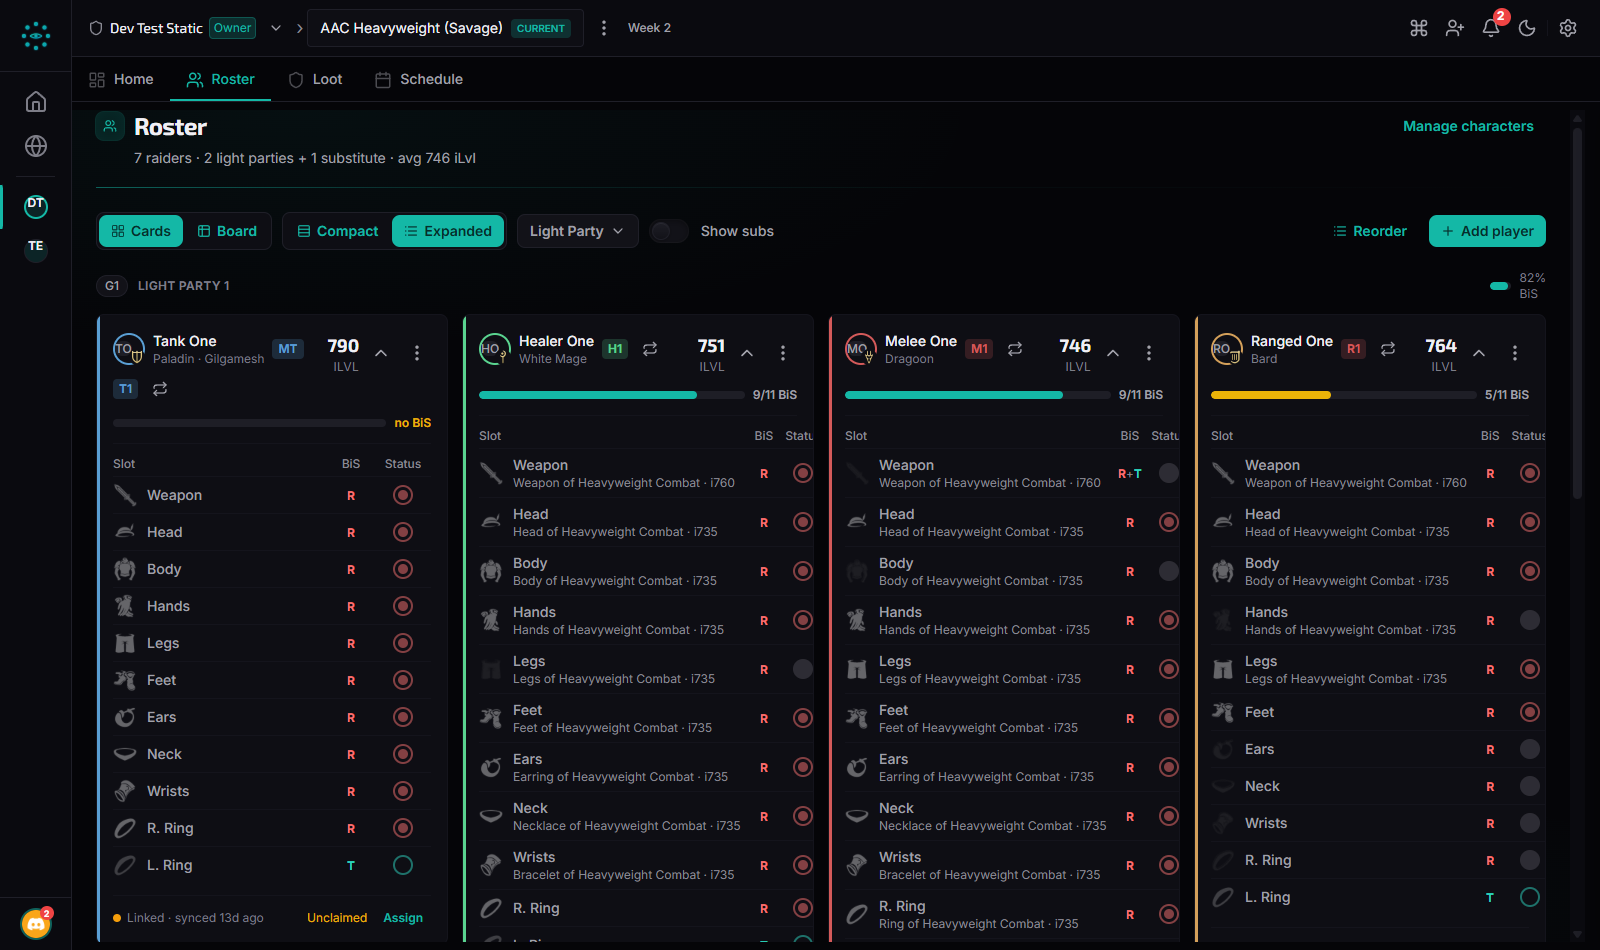
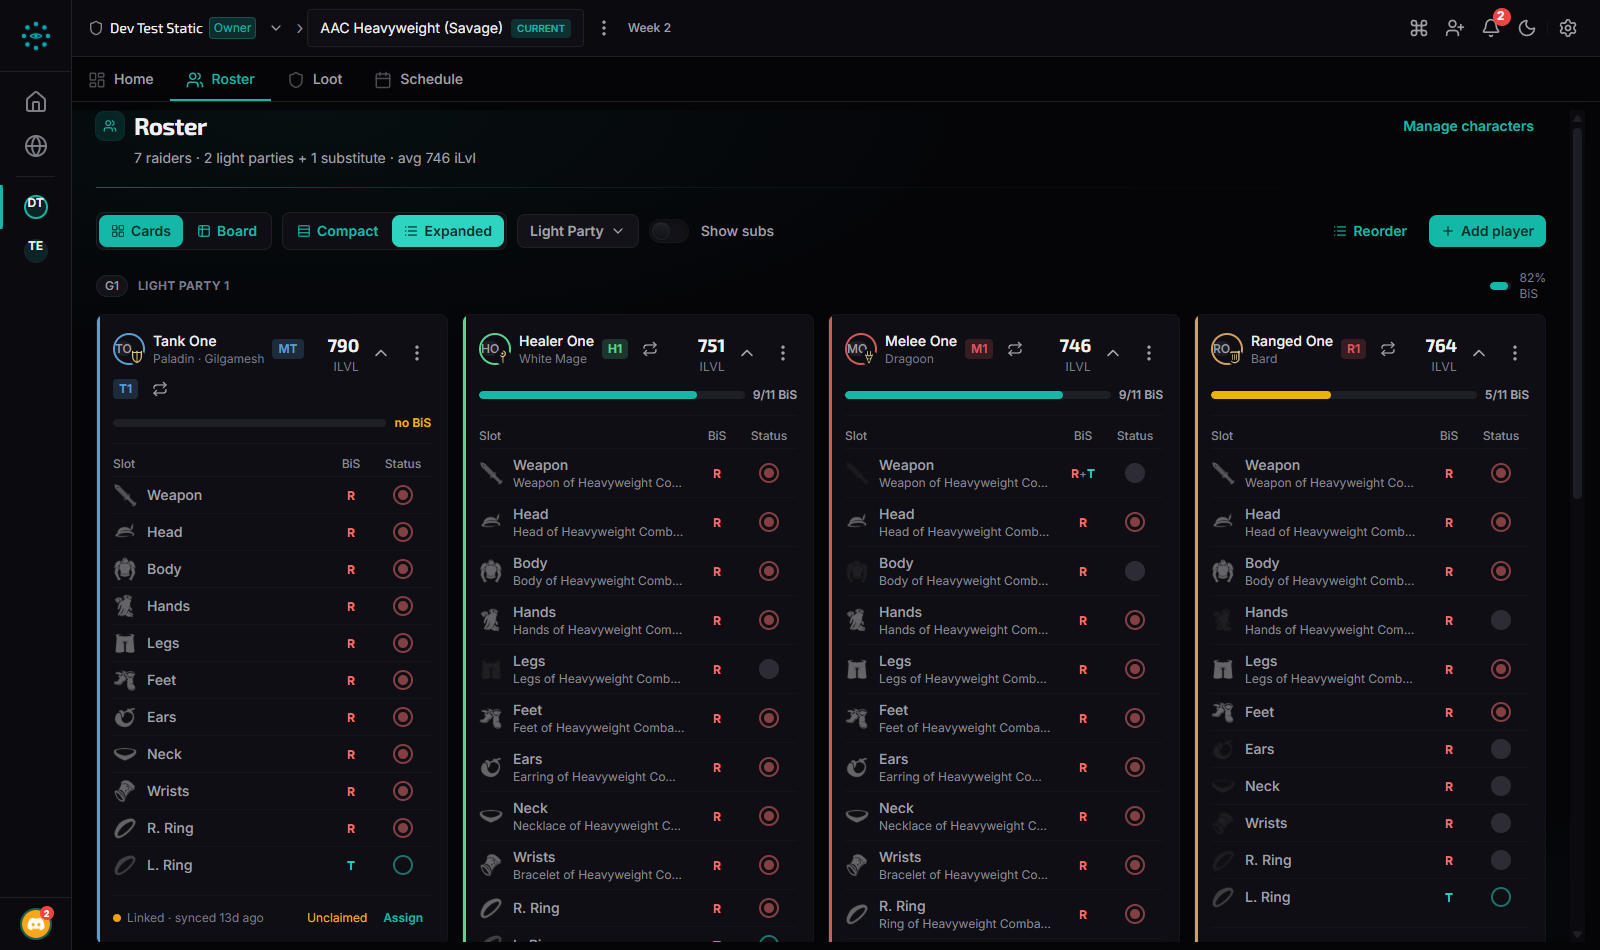
fix(redesign): C1 director change-review round — 8 findings folded
- V binding: inert (swallowed, no toggle) while the settings panel is open,
  read imperatively off settingsPanelStore (no roster re-render); the
  panel-over-Roster ST-14/ST-15 'v' collision is recorded as an accepted v2
  delta (under legacy BOTH handlers fired at once); pinned by test
- RosterGearTable: table-fixed so nowrap item names truncate instead of
  inflating the slot column and clipping BiS/Status off the card edge;
  verified live at card width (48/56px columns pinned on all 7 cards)
- RosterDensityFab: sm:hidden (matches the bottom-nav breakpoint it clears),
  toolbar's Rows3/List glyph pair, and the R-023 phone leg — re-clicking the
  active Expanded button routes to expand/collapse-all (ex-D-56 rider); tests
- Roster: reselect handler typed ViewMode; collapse-all targets only
  currently-RENDERED configured cards (hidden subs no longer stamped)
- contrast.spec: new expanded-density Axe leg (was outside every run at the
  compact default) — passes both themes against live servers
- matrix D-01: counting note (v2 re-clicks don't re-emit view_mode_change;
  shell field separates the series — never compare raw cross-shell counts)
- plan §2.1 addendum: no-tiny-text lock inspects className attributes only
  (const-hoisted strings escape it) + the Characters-panel carve-out rationale
- re-shot screenshots (expanded dark/light, both mobile)

diff --git a/frontend/src/components/roster/RosterDensityFab.tsx b/frontend/src/components/roster/RosterDensityFab.tsx
@@ -6,30 +6,38 @@
  * gated off under v2 inside shared `GroupViewContent` (`!slots?.roster`), and
  * that gate must not change — so the v2 roster ships its own affordance.
  * Composes `IconButton` primitives (the legacy FAB pre-dated the design system
- * and used raw buttons); hidden at ≥md where the toolbar control serves.
+ * and used raw buttons). `sm:hidden` matches the breakpoint of the bottom nav
+ * it clears (useDevice's 640px small-screen line). Icons mirror the toolbar's
+ * density pair (Rows3 = compact, List = expanded) — one glyph pair per axis.
+ *
+ * Re-clicking the active Expanded button fires `onReselect` — the R-023
+ * expand/collapse-all leg, phone-width (ex-D-56 rider), mirroring how legacy's
+ * FAB routed through the same handler as the desktop control.
  */
 
-import { LayoutGrid, List } from 'lucide-react';
+import { List, Rows3 } from 'lucide-react';
 import { IconButton } from '../primitives';
 import type { ViewMode } from '../../types';
 
 export interface RosterDensityFabProps {
   density: ViewMode;
   onDensityChange: (mode: ViewMode) => void;
+  /** Re-click of the active Expanded button (legacy R-023 expand/collapse-all). */
+  onReselect?: (mode: ViewMode) => void;
 }
 
-export function RosterDensityFab({ density, onDensityChange }: RosterDensityFabProps) {
+export function RosterDensityFab({ density, onDensityChange, onReselect }: RosterDensityFabProps) {
   return (
     // bottom-[4.5rem]: clears the bottom mobile nav (the shared GroupViewContent
     // still renders MobileBottomNav under v2 at phone widths — pre-existing,
     // Stage-2 scope) — the same clearance legacy's own FAB used (R-015).
-    <div className="fixed bottom-[4.5rem] left-4 z-30 flex gap-1 rounded-full border border-border-default bg-surface-raised/90 p-1 shadow-lg backdrop-blur-md md:hidden">
+    <div className="fixed bottom-[4.5rem] left-4 z-30 flex gap-1 rounded-full border border-border-default bg-surface-raised/90 p-1 shadow-lg backdrop-blur-md sm:hidden">
       <IconButton
         aria-label="Compact cards"
         aria-pressed={density === 'compact'}
         variant={density === 'compact' ? 'primary' : 'ghost'}
         size="sm"
-        icon={<LayoutGrid className="h-4 w-4" />}
+        icon={<Rows3 className="h-4 w-4" />}
         className="rounded-full"
         onClick={() => {
           if (density !== 'compact') onDensityChange('compact');
@@ -44,6 +52,7 @@ export function RosterDensityFab({ density, onDensityChange }: RosterDensityFabP
         className="rounded-full"
         onClick={() => {
           if (density !== 'expanded') onDensityChange('expanded');
+          else onReselect?.('expanded');
         }}
       />
     </div>

diff --git a/frontend/src/components/roster/Roster.tsx b/frontend/src/components/roster/Roster.tsx
@@ -62,7 +62,7 @@ import { SORT_PRESETS, DEFAULT_SETTINGS } from '../../utils/constants';
 import { computeNextUpgradePriorities } from '../../utils/nextUpgradePriority';
 import { rosterAvgIlv, bisSlotTotals } from '../../utils/rosterReadiness';
 import type { RosterCardActions } from '../../hooks/useRosterCardActions';
-import type { PageMode, SnapshotPlayer, SortPreset, StaticGroup, TierSnapshot } from '../../types';
+import type { PageMode, SnapshotPlayer, SortPreset, StaticGroup, TierSnapshot, ViewMode } from '../../types';
 
 /** Stable empty fallback so a missing/empty tier doesn't churn memo deps. */
 const EMPTY_PLAYERS: SnapshotPlayer[] = [];
@@ -231,13 +231,18 @@ export function Roster({ group, tier, canManage }: RosterProps) {
   const hasSubstitutes = useMemo(() => sortedPlayers.some((p) => p.isSubstitute), [sortedPlayers]);
 
   // Re-click-expand-all targets (R-023 at card granularity): every configured
-  // card. Open seats have no gear body, so they carry no density override.
-  const configuredPlayerIds = useMemo(
-    () => sortedPlayers.filter((p) => p.configured).map((p) => p.id),
-    [sortedPlayers],
-  );
+  // card CURRENTLY RENDERED — hidden substitutes must not be stamped with
+  // overrides they'd reveal later in the wrong density (legacy's equivalent
+  // only touched rendered sections). Subs render in group view only when the
+  // subs section shows; in the flat view they sit inline unless hidden.
+  const configuredPlayerIds = useMemo(() => {
+    const subsVisible = groupView ? subsView && !subsHidden : !subsHidden;
+    return sortedPlayers
+      .filter((p) => p.configured && (!p.isSubstitute || subsVisible))
+      .map((p) => p.id);
+  }, [sortedPlayers, groupView, subsView, subsHidden]);
   const onDensityReselect = useCallback(
-    (mode: string) => {
+    (mode: ViewMode) => {
       if (mode === 'expanded') handleExpandedReselect(configuredPlayerIds);
     },
     [handleExpandedReselect, configuredPlayerIds],
@@ -492,7 +497,11 @@ export function Roster({ group, tier, canManage }: RosterProps) {
       {/* Phone-width density affordance (D-01 / ex-D-56 rider) — Cards only;
           the Board has no density axis. */}
       {rosterView === 'cards' && (
-        <RosterDensityFab density={density} onDensityChange={setDensity} />
+        <RosterDensityFab
+          density={density}
+          onDensityChange={setDensity}
+          onReselect={onDensityReselect}
+        />
       )}
     </div>
   );

diff --git a/frontend/src/components/roster/RosterDensityFab.test.tsx b/frontend/src/components/roster/RosterDensityFab.test.tsx
@@ -1,0 +1,40 @@
+import { render, screen, fireEvent } from '@testing-library/react';
+import { describe, it, expect, vi } from 'vitest';
+import { RosterDensityFab } from './RosterDensityFab';
+
+describe('RosterDensityFab', () => {
+  it('switches density from the inactive button and marks the active one pressed', () => {
+    const onDensityChange = vi.fn();
+    render(<RosterDensityFab density="compact" onDensityChange={onDensityChange} />);
+
+    expect(screen.getByRole('button', { name: 'Compact cards' })).toHaveAttribute(
+      'aria-pressed',
+      'true'
+    );
+    fireEvent.click(screen.getByRole('button', { name: 'Expanded cards' }));
+    expect(onDensityChange).toHaveBeenCalledWith('expanded');
+  });
+
+  it('routes a re-click of the active Expanded button to onReselect (R-023, phone leg)', () => {
+    const onDensityChange = vi.fn();
+    const onReselect = vi.fn();
+    render(
+      <RosterDensityFab density="expanded" onDensityChange={onDensityChange} onReselect={onReselect} />
+    );
+
+    fireEvent.click(screen.getByRole('button', { name: 'Expanded cards' }));
+    expect(onReselect).toHaveBeenCalledWith('expanded');
+    expect(onDensityChange).not.toHaveBeenCalled();
+  });
+
+  it('keeps an active-Compact re-click a no-op (legacy wired only the Expanded leg)', () => {
+    const onDensityChange = vi.fn();
+    const onReselect = vi.fn();
+    render(
+      <RosterDensityFab density="compact" onDensityChange={onDensityChange} onReselect={onReselect} />
+    );
+    fireEvent.click(screen.getByRole('button', { name: 'Compact cards' }));
+    expect(onDensityChange).not.toHaveBeenCalled();
+    expect(onReselect).not.toHaveBeenCalled();
+  });
+});

diff --git a/frontend/src/components/roster/useRosterDensity.test.ts b/frontend/src/components/roster/useRosterDensity.test.ts
@@ -1,6 +1,7 @@
 import { renderHook, act } from '@testing-library/react';
 import { describe, it, expect, vi, beforeEach } from 'vitest';
 import { useRosterDensity, ROSTER_DENSITY_KEY } from './useRosterDensity';
+import { useSettingsPanelStore } from '../../stores/settingsPanelStore';
 import { analytics } from '../../services/analytics';
 
 vi.mock('../../services/analytics', () => ({
@@ -28,6 +29,7 @@ function renderDensity(opts?: Partial<Parameters<typeof useRosterDensity>[0]>) {
 beforeEach(() => {
   localStorage.clear();
   trackMock.mockClear();
+  useSettingsPanelStore.setState({ isOpen: false });
 });
 
 describe('useRosterDensity', () => {
@@ -142,6 +144,24 @@ describe('useRosterDensity', () => {
     pressV();
     expect(result.current.density).toBe('compact');
     expect(bubbleListener).not.toHaveBeenCalled();
+    window.removeEventListener('keydown', bubbleListener);
+  });
+
+  it('is inert (swallowed, density unchanged) while the settings panel is open', () => {
+    // Density must not flip behind the panel — and the event still must not
+    // reach the frozen shared handler (it would write party-view-mode).
+    const bubbleListener = vi.fn();
+    window.addEventListener('keydown', bubbleListener);
+    const { result } = renderDensity();
+    act(() => useSettingsPanelStore.setState({ isOpen: true }));
+
+    pressV();
+    expect(result.current.density).toBe('compact');
+    expect(bubbleListener).not.toHaveBeenCalled();
+
+    act(() => useSettingsPanelStore.setState({ isOpen: false }));
+    pressV();
+    expect(result.current.density).toBe('expanded');
     window.removeEventListener('keydown', bubbleListener);
   });
 

diff --git a/frontend/e2e/contrast.spec.ts b/frontend/e2e/contrast.spec.ts
@@ -239,6 +239,22 @@ for (const theme of THEMES) {
     const cards = await cardsBuilder.withRules(['color-contrast']).analyze()
     expect(cards.violations, JSON.stringify(cards.violations, null, 2)).toEqual([])
 
+    // Cards view, EXPANDED density (Phase C C1): the default density is compact,
+    // so without this leg the gear-table surface (item detail lines, source
+    // glyphs, headers) would sit outside every Axe run.
+    await page.getByRole('button', { name: 'Expanded' }).click()
+    await page.waitForTimeout(300)
+    let expandedBuilder = new AxeBuilder({ page }).include('[data-testid="roster-screen"]')
+    for (const selector of LEGACY_ROLE_BADGE_SELECTORS) {
+      expandedBuilder = expandedBuilder.exclude(selector)
+    }
+    const expanded = await expandedBuilder.withRules(['color-contrast']).analyze()
+    expect(expanded.violations, JSON.stringify(expanded.violations, null, 2)).toEqual([])
+    // Restore the default so the Board leg below starts from the same state
+    // as before this leg existed.
+    await page.getByRole('button', { name: 'Compact' }).click()
+    await page.waitForTimeout(300)
+
     // Board view (GearBoard does not render PositionSelector/TankRoleSelector, so no exclude needed)
     await page.getByRole('button', { name: 'Board' }).click()
     await page.waitForLoadState('networkidle')

diff --git a/frontend/src/components/roster/useRosterDensity.ts b/frontend/src/components/roster/useRosterDensity.ts
@@ -29,6 +29,7 @@
 import { useCallback, useEffect, useMemo, useRef, useState } from 'react';
 import { analytics } from '../../services/analytics';
 import { areShortcutsEnabled } from '../../hooks/useKeyboardShortcuts';
+import { useSettingsPanelStore } from '../../stores/settingsPanelStore';
 import type { ViewMode } from '../../types';
 
 /** v2-scoped persistence key (plan §5: strict freeze — never `party-view-mode`). */
@@ -136,6 +137,13 @@ export function useRosterDensity({
       // Own the key: exactly one handler acts on `V` while v2 Roster is mounted.
       e.preventDefault();
       e.stopImmediatePropagation();
+      // Settings panel open → swallowed but inert: density must not flip behind
+      // the panel. Read imperatively — a subscription here would re-render the
+      // roster on every panel toggle (settingsPanelStore.ts's ~500ms lesson).
+      // Accepted v2 delta (director change-review, 2026-07-26): the Priority
+      // tab's own `v` (ST-14/ST-15) doesn't fire while the panel covers the
+      // ROSTER tab — under legacy both handlers fired at once.
+      if (useSettingsPanelStore.getState().isOpen) return;
       if (shortcutsDisabled || !active) return;
       toggleRef.current();
     }

diff --git a/frontend/src/components/roster/RosterGearTable.tsx b/frontend/src/components/roster/RosterGearTable.tsx
@@ -50,7 +50,10 @@ export function RosterGearTable({ gear, tomeWeapon }: RosterGearTableProps) {
   const bySlot = new Map(gear.map((g) => [g.slot, g]));
 
   return (
-    <table className="w-full text-sm">
+    // table-fixed: the header row's w-12/w-14 pin the BiS/Status columns and the
+    // slot column absorbs the rest, so a long nowrap item name truncates instead
+    // of inflating its column and clipping the headers off the card edge.
+    <table className="w-full table-fixed text-sm">
       <thead>
         <tr className="text-xs text-text-muted">
           <th className="py-1 text-left font-medium">Slot</th>

diff --git a/design/redesign/specs/v1-v2-parity-matrix.md b/design/redesign/specs/v1-v2-parity-matrix.md
@@ -141,7 +141,7 @@ D-72 · D-66 → D-66 + D-70 · D-67 → D-67 + D-71. IDs are never re-used or r
 
 | D-ID | What | Class | Legacy rows | V2 today | Usage signal | Ruling |
 |---|---|---|---|---|---|---|
-| **D-01** | The **expanded ⇄ compact card axis** itself: two card densities, a mobile floating density FAB, re-click-to-expand-all, the `V` shortcut, and the expanded-only "active BiS target" chip. | LOST | R-014, R-015, R-023, R-065, R-066, R-087, R-165 | absent — v2 has one card density (V2R-10…V2R-17) | **expanded 203/71 vs compact 126/51** — strongest single datapoint in the matrix | **RESTORE** *(restyled — Phase C centerpiece; ruled 2026-07-26)* |
+| **D-01** | The **expanded ⇄ compact card axis** itself: two card densities, a mobile floating density FAB, re-click-to-expand-all, the `V` shortcut, and the expanded-only "active BiS target" chip. | LOST | R-014, R-015, R-023, R-065, R-066, R-087, R-165 | absent — v2 has one card density (V2R-10…V2R-17) | **expanded 203/71 vs compact 126/51** — strongest single datapoint in the matrix ⚠ *Counting note (C1, 2026-07-26): the v2 restore emits `view_mode_change` with a `shell:'v2'` field and does NOT re-emit on a re-click of the active Expanded control (legacy re-emitted on every click; v2 routes re-clicks to expand/collapse-all). v2 series will run strictly lower for identical behavior — never compare raw counts across shells.* | **RESTORE** *(restyled — Phase C centerpiece; ruled 2026-07-26)* |
 | **D-02** | **Editing and inspecting gear on the card**: click-to-cycle each slot (2-state raid/crafted/base-tome, 3-state augmented-tome), hover item card with stats/materia/equipped-vs-BiS, the Status-column tooltip that teaches the cycle. | LOST | R-088, R-093, R-096, R-097 | V2R-15 gear pips are **explicitly read-only** (`disabled`, no-op `onChange`); editing exists only on the Board (V2R-21/22) | no data — `player_gear_changed` never fired (caveat 3) | **RESTORE** *(click-to-cycle + hover inspect on the restored D-01 card; ruled 2026-07-26)* |
 | **D-03** | **Per-slot BiS-source assignment**: the R/T/C/BT selector popover (with the reset-warning confirm), the per-slot "Fix" button, and the "N slots need BiS source updates" banner that bulk-corrects them. | LOST | R-086, R-091, R-092 | absent — no v2 affordance sets a slot's `bisSource`; `BiSSourceSelector` is unmounted in v2 | no data | **RESTORE** *(selector + Fix + bulk banner return with the restored gear table; ruled 2026-07-26)* |
 | **D-04** | **Tome-weapon tracking**: the weapon row's "+" toggle and the tome-weapon sub-row with its own 3-state circle and material-entry jump. | CHANGED | R-094, R-095 | V2R-14 kebab item "Track / Stop Tracking Tome Weapon" — state toggles, but the sub-row (and its own progress circle) is gone | no data | **RESTORE** *(sub-row + own progress circle + material jump; ruled 2026-07-26)* |

diff --git a/design/redesign/specs/phase-c-roster-plan.md b/design/redesign/specs/phase-c-roster-plan.md
@@ -114,6 +114,14 @@ hardcoded colors only — it does **not** catch legacy's `text-[10px]`-class vio
 needs a real gate: **C1 adds `src/components/roster/**` to the eslint error-locked block**
 (v2-tree-only change), and each slice's director change-review runs a `git grep "text-\["`
 assert over the new files.
+*C1 addendum (2026-07-26, director change-review):* two limits of the shipped lock, so
+C2–C8 don't over-trust it — (1) `no-tiny-text` inspects JSX `className` attributes only;
+class strings hoisted to module consts escape it (e.g. `GearBoardCell.tsx`'s `text-[9px]`
+reports nothing inside the locked subtree) — the per-slice `git grep` assert remains the
+backstop; (2) the Characters-panel subtree (`Character*`, `RosterCharacter*`,
+`AddManualCharacterModal`, `LinkPlayerHubCharacterModal`) is carved out of the lock because
+it is the declared shared surface legacy mounts (flow map §2.2) — its tiny-text debt cannot
+be restyled without a V1-visible change; the carve-out dies with D-12/C8.
 
 ### 2.2 Gating
 
